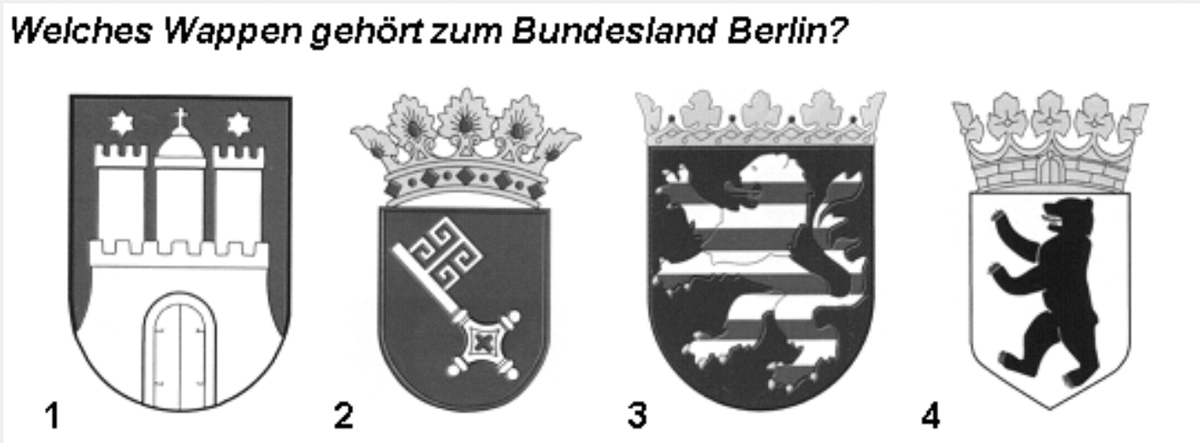
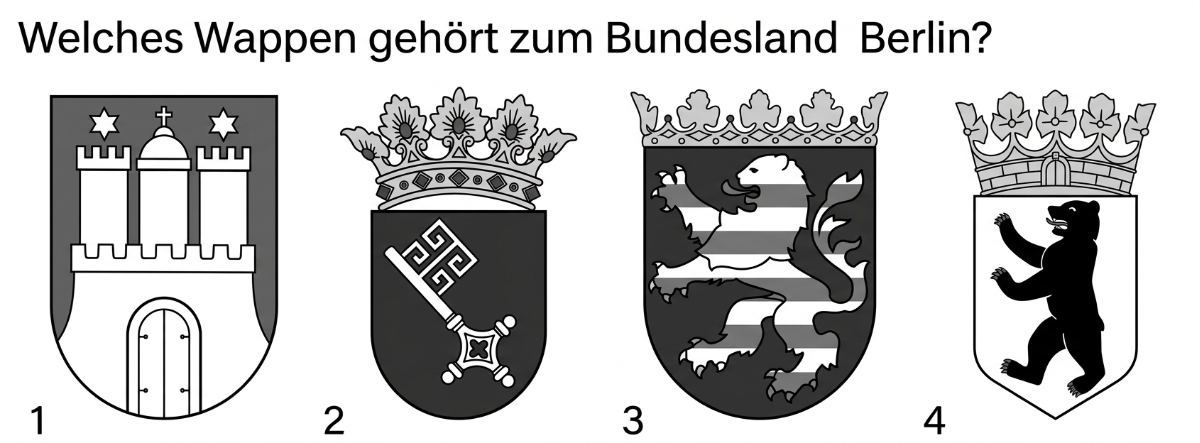
Replace Berlin image with corrected redraw

diff --git a/README.md b/README.md
@@ -38,7 +38,7 @@ No web server is required; `data/questions.js`, `data/vocabulary.js` and `data/i
[1 lines of base64/hex data omitted]
   <https://www.bamf.de/SharedDocs/Anlagen/DE/Integration/Einbuergerung/gesamtfragenkatalog-lebenindeutschland.html?nn=284310>
 - **Answers, English translations, explanations and images**: [abdullahbutt/leben-in-deutschland-test](https://github.com/abdullahbutt/leben-in-deutschland-test), version 2026-10-28. **The German question and option wording is taken verbatim from the official BAMF PDF**; the dataset supplies the answer key, English translations, explanations and images. The translations and explanations are licensed under **CC BY-NC 4.0** (attribution, non-commercial use). `data/overrides.json` contains manual corrections for the few items where the dataset described a different paraphrase (e.g. B232, B247, HB02, SN07).
-- **Redrawn images**: `data/images/21.png`, `data/images/55.png`, `data/images/70.png`, `data/images/130.png`, `data/images/176.png`, `data/images/181.png`, `data/images/187.png`, `data/images/209.png`, `data/images/216.png`, `data/images/226.png`, `data/images/235.png` and `data/images/301-baden-wuerttemberg.png` are redrawn replacements added for this project; the remaining images come from the dataset.
+- **Redrawn images**: `data/images/21.png`, `data/images/55.png`, `data/images/70.png`, `data/images/130.png`, `data/images/176.png`, `data/images/181.png`, `data/images/187.png`, `data/images/209.png`, `data/images/216.png`, `data/images/226.png`, `data/images/235.png`, `data/images/301-baden-wuerttemberg.png` and `data/images/301-berlin.png` are redrawn replacements added for this project; the remaining images come from the dataset.
 - This is an independent learning app, not an official BAMF product. Use is intended for personal, non-commercial exam preparation.
 
 ## Project layout
